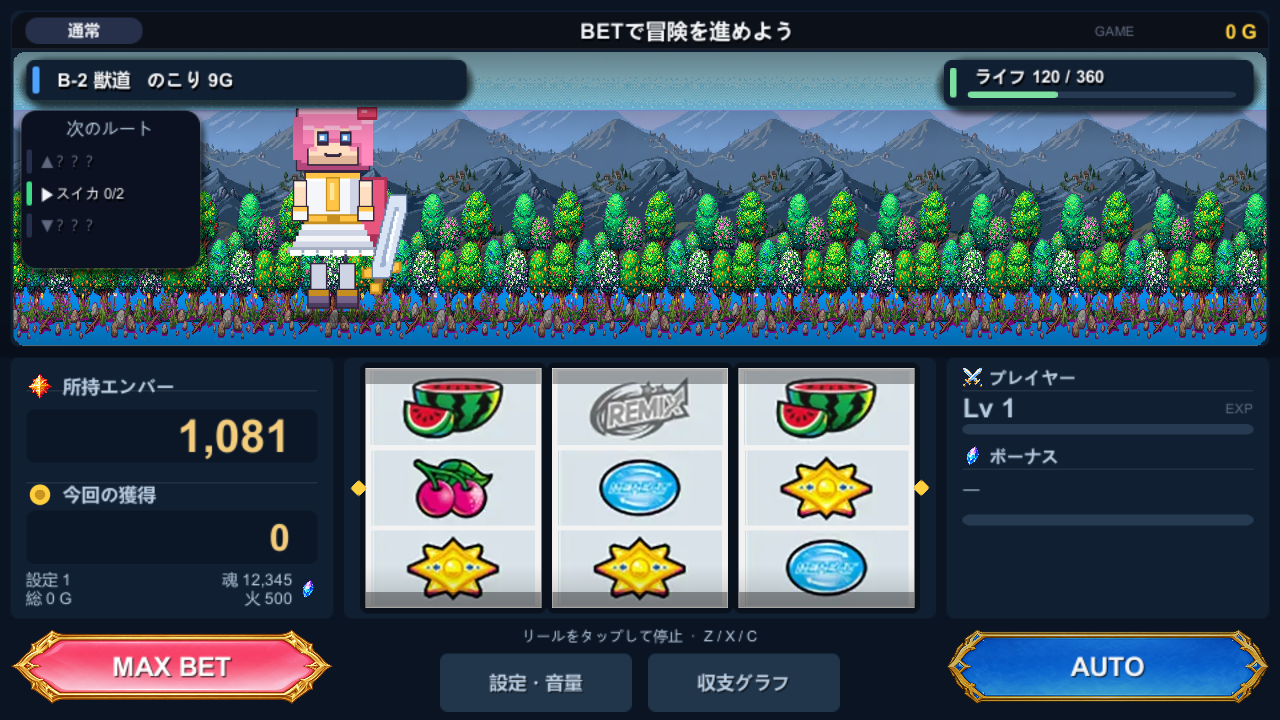
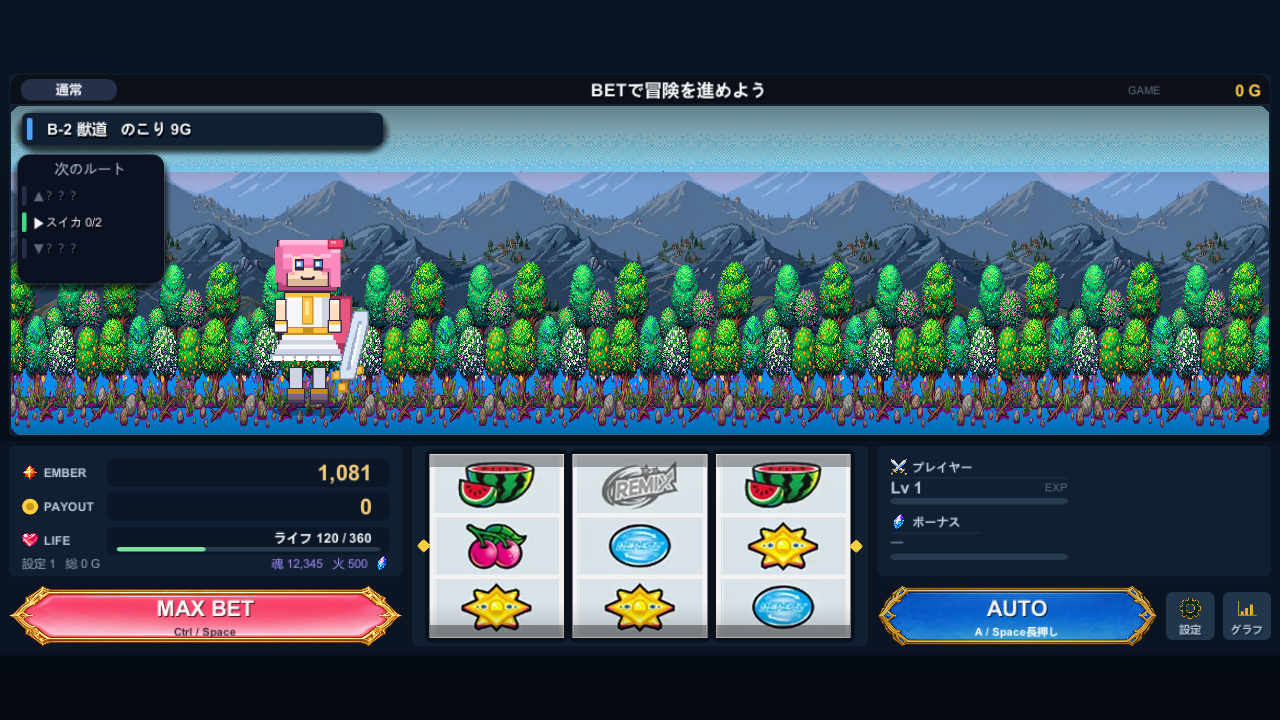
fix(ui): 冒険画面の情報配置と操作案内を改善

diff --git a/UnityProject/BigBonusBlitz/Assets/Scripts/BBB.Runtime/AdventureUiV2.cs b/UnityProject/BigBonusBlitz/Assets/Scripts/BBB.Runtime/AdventureUiV2.cs
@@ -23,6 +23,8 @@ namespace BBB.Runtime
             foreach (string name in new[] { "CreditLabel", "PayoutLabel", "LifeLabel" }) Label(display, name, null, 11);
             Label(display,"CreditInset/CreditNum",null,20); Label(display,"PayoutInset/PayoutNum",null,20);
             Panel(display.Find("TorchTag"), UiSkin.Hex("#0b1727"));
+            Gauge(display.Find("TorchTag"), "Gauge");
+            V2Icon(display,"LifeIcon","heart");
             V2Icon(display,"EmberIcon","ember"); V2Icon(display,"SoulIcon","crystal");
 
             // 右パネルは GameController が 2 列で組む。ここでは色と絵だけ替える
@@ -36,6 +38,8 @@ namespace BBB.Runtime
             {
                 var b = stage.Find(name); if (b == null) continue;
                 Panel(b); Flat(b, "Body", UiSkin.Hex("#21354b"));
+                Move(b, "Icon", new Vector2(0,7), new Vector2(20,20));
+                Label(b, "Label", name == "BtnSettings" ? "設定" : "グラフ", 10, new Vector2(0,-12), new Vector2(40,14));
                 var button = b.GetComponent<Button>(); if (button == null) continue;
                 var colors = button.colors; colors.normalColor = Color.white; colors.selectedColor = Color.white;
                 colors.highlightedColor = new Color(1.2f,1.2f,1.2f); colors.pressedColor = new Color(.7f,.8f,.9f); button.colors = colors;
@@ -94,8 +98,13 @@ namespace BBB.Runtime
         {
             if(root==null)return;
             var im=root.Find("Body")?.GetComponent<Image>();if(im!=null){im.sprite=MapUiV2.Sprite(art);im.type=Image.Type.Sliced;im.color=Color.white;im.pixelsPerUnitMultiplier=im.sprite.texture.width/(art=="btn_blue"?1672f:2172f)*9;}
-            foreach(string n in new[]{"Sub","Shadow","Lamp","Sheen","Bottom"}){var c=root.Find(n);if(c!=null)c.gameObject.SetActive(false);}
-            Label(root,"Label",null,20,Vector2.zero);var label=root.Find("Label")?.GetComponent<Text>();if(label!=null)label.color=Color.white;
+            foreach(string n in new[]{"Shadow","Lamp","Sheen","Bottom"}){var c=root.Find(n);if(c!=null)c.gameObject.SetActive(false);}
+            float textW = ((RectTransform)root).sizeDelta.x - 60;
+            Label(root,"Label",null,20,new Vector2(0,7),new Vector2(textW,26));
+            Label(root,"Sub",null,10,new Vector2(0,-14),new Vector2(textW,14));
+            var hint=root.Find("Sub")?.GetComponent<Text>();
+            if(hint!=null) { hint.color=art=="btn_pink"?UiSkin.Hex("#47223b"):Color.white; hint.fontStyle=FontStyle.Bold; }
+            var label=root.Find("Label")?.GetComponent<Text>();if(label!=null)label.color=Color.white;
         }
         private static void Tool(Transform root,Transform stage,float x,string title)
         {

diff --git a/UnityProject/BigBonusBlitz/Assets/Editor/AdventureUiValidation.cs b/UnityProject/BigBonusBlitz/Assets/Editor/AdventureUiValidation.cs
@@ -54,6 +54,13 @@ public static class AdventureUiValidation
             // 舞台より狭い画面では実機と同じく舞台ごと縮める（SafeStage と同じ式）
             safe.Stage.localScale = Vector3.one * Mathf.Min(1f, (540f * size.x / size.y) / safe.Stage.sizeDelta.x);
             Canvas.ForceUpdateCanvases();
+            var stage = safe.Stage;
+            AssertSeparate(stage, "Side/BonusHead", "Side/AtRank");
+            AssertSeparate(stage, "Side/BonusLabel", "Side/AtRank");
+            AssertSeparate(stage, "BtnBet/Label", "BtnBet/Sub");
+            AssertSeparate(stage, "BtnAuto/Label", "BtnAuto/Sub");
+            AssertSeparate(stage, "BtnSettings/Icon", "BtnSettings/Label");
+            AssertSeparate(stage, "BtnGraph/Icon", "BtnGraph/Label");
             foreach (var g in canvas.GetComponentsInChildren<Graphic>()) { g.SetAllDirty(); g.Rebuild(CanvasUpdate.PreRender); g.canvasRenderer.cull = false; }
             Canvas.ForceUpdateCanvases();
             var target = RenderTexture.GetTemporary(size.x, size.y, 24);
@@ -67,5 +74,17 @@ public static class AdventureUiValidation
             if ((button.name == "BtnBet" || button.name == "BtnAuto" || button.name == "BtnSettings" || button.name == "BtnGraph") && ((RectTransform)button.transform).rect.height < 44) throw new Exception("Touch target smaller than 44: " + button.name);
         File.WriteAllText(Path.Combine(output,"validation.json"),"{\"passed\":true,\"resolutions\":[\"1280x720\",\"2556x1179\"],\"saveDataTouched\":false}");
         Debug.Log("ADVENTURE_UI_VALIDATION passed");
+    }
+
+    private static void AssertSeparate(RectTransform stage, string a, string b)
+    {
+        Rect Bounds(string path)
+        {
+            var rt = stage.Find(path) as RectTransform;
+            if (rt == null) throw new Exception("Missing UI: " + path);
+            var corners = new Vector3[4]; rt.GetWorldCorners(corners);
+            return Rect.MinMaxRect(corners[0].x, corners[0].y, corners[2].x, corners[2].y);
+        }
+        if (Bounds(a).Overlaps(Bounds(b))) throw new Exception("Overlapping UI: " + a + " / " + b);
     }
 }

diff --git a/UnityProject/BigBonusBlitz/Assets/Scripts/BBB.Runtime/GameController.cs b/UnityProject/BigBonusBlitz/Assets/Scripts/BBB.Runtime/GameController.cs
@@ -667,9 +667,11 @@ namespace BBB.Runtime
             UiFactory.Label(side, "ExpLabel", new Vector2(sColL, top - 38), new Vector2(sColW, 18), "EXP", 10, TextAnchor.MiddleRight, UiSkin.TextDim);
             _expFill = UiSkin.Gauge(side, "Exp", new Vector2(sColL, top - 51), new Vector2(sColW, 6), ColGreen, out _expTrack);
             UiSkin.Img(side, "BonusIcon", new Vector2(sColL - sColW * 0.5f + HeadIco * 0.5f, top - 70), new Vector2(HeadIco, HeadIco), UiSkin.Icon("amulet", 64), Color.white);
-            UiSkin.Heading(side, "BonusHead", new Vector2(sColL, top - 70), sColW, "BONUS", HeadIndent);
+            const float rankW = 72f, rankGap = 8f;
+            float bonusHeadW = sColW - rankW - rankGap;
+            UiSkin.Heading(side, "BonusHead", new Vector2(sColL - sColW * 0.5f + bonusHeadW * 0.5f, top - 70), bonusHeadW, "BONUS", HeadIndent);
             _bonusLabel = UiFactory.Label(side, "BonusLabel", new Vector2(sColL, top - 88), new Vector2(sColW, 16), "―", 12, TextAnchor.MiddleLeft, ColGold);
-            _atRankLabel = UiFactory.Label(side, "AtRank", new Vector2(sColL, top - 88), new Vector2(sColW, 16), "", 10, TextAnchor.MiddleRight, UiSkin.TextDim);
+            _atRankLabel = UiFactory.Label(side, "AtRank", new Vector2(sColL + sColW * 0.5f - rankW * 0.5f, top - 70), new Vector2(rankW, 16), "", 10, TextAnchor.MiddleRight, UiSkin.TextDim);
             _bonusFill = UiSkin.Gauge(side, "BonusGauge", new Vector2(sColL, top - 102), new Vector2(sColW, 6), ColGold, out _bonusTrack);
             // 右の列
             _status = UiFactory.Label(side, "Status", new Vector2(sColR, top - 30), new Vector2(sColW, 40), "", 12, TextAnchor.UpperLeft, ColText);

diff --git a/docs/check_layout.py b/docs/check_layout.py
@@ -131,6 +131,9 @@ sColL = -innerW / 2 + sColW / 2
 sColR = innerW / 2 - sColW / 2
 top = MidH / 2
 row('右パネルの横（2 列）', [('左の列', sColL, sColW), ('右の列', sColR, sColW)], left=-innerW / 2, right=innerW / 2)
+rankW, rankGap = 72, 8
+headW = sColW - rankW - rankGap
+row('ボーナス見出しとAT期待度', [('見出し', -sColW / 2 + headW / 2, headW), ('期待度', sColW / 2 - rankW / 2, rankW)], left=-sColW / 2, right=sColW / 2)
 stack('右パネルの左の列の縦', [
     ('PLAYER見出し', top - 20, 16), ('Lv', top - 38, 18), ('EXPゲージ', top - 51, 6),
     ('BONUS見出し', top - 70, 16), ('BONUS文字', top - 88, 16), ('BONUSゲージ', top - 102, 6),
@@ -256,8 +259,8 @@ for name, w, h in [('ゲーム中', 700.0, 340.0), ('街', 564.0, 258.0)]:
           f'縦{"OK" if ok_v else "NG"} 横{"OK" if ok_h else "NG"}  名前表示 {"あり" if g >= 44 else "なし"}')
 
 # ---------------------------------------------------------------- 結果
-stack('Adventure V2 amounts', [('ember caption',76,20), ('ember value',39,44), ('payout caption',-5,20), ('payout value',-37,36), ('resources',-76,32)], top=98, bottom=-98)
-row('Adventure V2 controls', [('BET',-351,242), ('settings',-78,144), ('graph',78,144), ('AUTO',351,242)], left=-480, right=480)
+stack('V2 button text', [('label',7,26), ('hint',-14,14)], top=28, bottom=-28)
+stack('V2 tool content', [('icon',7,20), ('caption',-12,14)], top=22, bottom=-22)
 print()
 if FAIL:
     print('NG が %d 件:' % len(FAIL))

diff --git a/tools/adventure-ui-qa/README.md b/tools/adventure-ui-qa/README.md
@@ -4,12 +4,13 @@
 
 - 下部と画面外周を濃紺に統一。パネルと数値表示の重複した金枠を除去。
 - V2のエンバー・ソウル・剣アイコンとBET/AUTOボタンを使用。
-- 獲得数値を大型化。設定・累計G・資源を2行で整理。
-- プレイヤー、ボーナス進捗、AT期待度、状態の行を分離。
-- 設定・音量／収支グラフはリール下の44高ボタンへ。デバッグはDキーで引き続き利用可能。
+- 横幅1170の舞台に、EMBER・PAYOUT・LIFEを3行で配置。設定・累計G・資源は表示器の下端へ。
+- AT期待度はボーナス見出しの右へ分離し、獲得数の行を広く確保。
+- 設定・音量／収支グラフは右下の44高ボタンへ。アイコンに短いラベルを併記。デバッグはDキーで引き続き利用可能。
+- BET・AUTOはボタン内にキーボード／タッチの操作案内を表示。LIFEはV2のハートアイコンとフラットなゲージで統一。
 - HOLDは錠と「進行停止」で表現。外周発光の太さを縮小。
 - リールタップ、キーボード、BET、AUTO、設定・グラフの既存コールバックを保持。
 
 画像は実際のUnity uGUIを分離したバッチプロジェクトで描画したものです。1280×720は通常時、2556×1179はREGボーナス51/90。セーブファイルは読み書きしません。
 
-検証: AdventureUiValidation.Run、docs/check_layout.py。
+検証: AdventureUiValidation.Run、docs/check_layout.py。Unity上でボーナス見出し・AT期待度・獲得数、ボタンの主文と案内、ツールのアイコンと文字の矩形が重ならないことも検査します。
